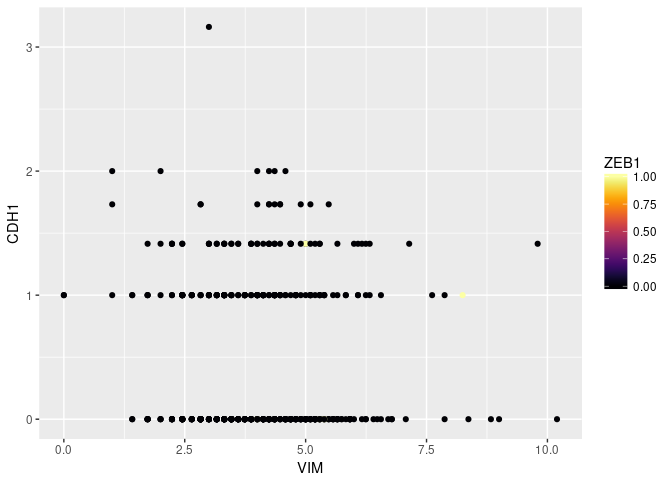
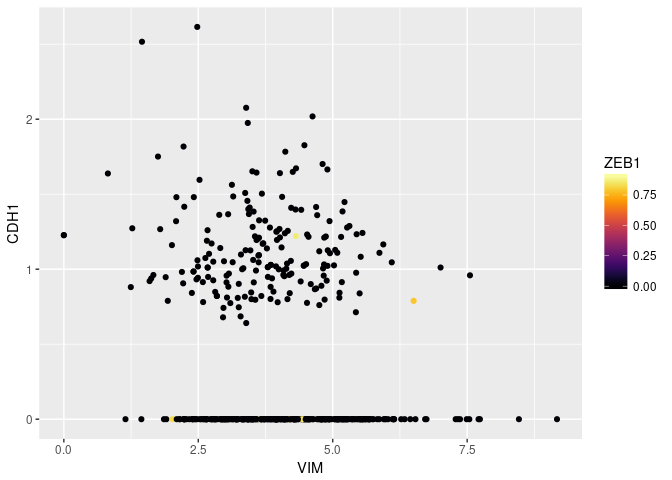
update R readme

diff --git a/R/README.md b/R/README.md
@@ -26,6 +26,11 @@ Diffusion*, Cell
     visualizations
   - MAGIC can be performed on a variety of datasets
   - Here, we show the usage of MAGIC on a toy dataset
+  - You can view further examples of MAGIC on real data in our notebooks
+    under
+        `inst/examples`:
+      - <https://github.com/KrishnaswamyLab/MAGIC/blob/master/R/inst/examples/EMT_tutorial.md>
+      - <https://github.com/KrishnaswamyLab/MAGIC/blob/master/R/inst/examples/bonemarrow_tutorial.md>
 
 ### Installation
 
@@ -50,7 +55,6 @@ We’ll install a couple more tools for this tutorial.
 ``` r
 if (!require(viridis)) install.packages("viridis")
 if (!require(ggplot2)) install.packages("ggplot2")
-if (!require(readr)) install.packages("readr")
 if (!require(phateR)) install.packages("phateR")
 ```
 
@@ -69,7 +73,6 @@ We load the Rmagic package and a few others for convenience functions.
 library(Rmagic)
 #> Loading required package: Matrix
 library(ggplot2)
-library(readr)
 library(viridis)
 #> Loading required package: viridisLite
 library(phateR)
@@ -86,43 +89,20 @@ The example data is located in the MAGIC Github repository.
 
 ``` r
 # load data
-data <- read_csv("../data/test_data.csv")
-#> Parsed with column specification:
-#> cols(
-#>   .default = col_double(),
-#>   AARSD1 = col_integer(),
-#>   AC007773.2 = col_integer(),
-#>   AC011998.4 = col_integer(),
-#>   AC013470.6 = col_integer(),
-#>   AC019129.1 = col_integer(),
-#>   AC084357.1 = col_integer(),
-#>   ACOT4 = col_integer(),
-#>   ADAMTSL1 = col_integer(),
-#>   ADGRA2 = col_integer(),
-#>   ANKRD36B = col_integer(),
-#>   ANKRD36C = col_integer(),
-#>   ANP32BP1 = col_integer(),
-#>   ANXA2P3 = col_integer(),
-#>   ANXA9 = col_integer(),
-#>   AP000254.8 = col_integer(),
-#>   AP000692.9 = col_integer(),
-#>   APLF = col_integer(),
-#>   `ATP1A1-AS1` = col_integer(),
-#>   ATP5A1P3 = col_integer(),
-#>   ATP9B = col_integer()
-#>   # ... with 46 more columns
-#> )
-#> See spec(...) for full column specifications.
-data[1:5,1:10]
-#> # A tibble: 5 x 10
-#>   `A1BG-AS1` AAMDC  AAMP AARSD1 ABCA12 ABCG2 ABHD13 AC007773.2 AC011998.4
-#>        <dbl> <dbl> <dbl>  <int>  <dbl> <dbl>  <dbl>      <int>      <int>
-#> 1          0     0     0      0      0     0      0          0          0
-#> 2          0     1     0      0      0     0      1          0          0
-#> 3          1     0     1      0      0     0      0          0          0
-#> 4          0     0     0      0      0     0      0          0          0
-#> 5          0     0     0      0      0     0      0          0          0
-#> # ... with 1 more variable: AC013470.6 <int>
+data(magic_testdata)
+magic_testdata[1:5,1:10]
+#>       A1BG-AS1     AAMDC      AAMP AARSD1 ABCA12 ABCG2    ABHD13
+#> 6564 0.0000000 0.0000000 0.0000000      0      0     0 0.0000000
+#> 3835 0.0000000 0.8714711 0.0000000      0      0     0 0.8714711
+#> 6318 0.7739207 0.0000000 0.7739207      0      0     0 0.0000000
+#> 3284 0.0000000 0.0000000 0.0000000      0      0     0 0.0000000
+#> 1171 0.0000000 0.0000000 0.0000000      0      0     0 0.0000000
+#>      AC007773.2 AC011998.4 AC013470.6
+#> 6564          0          0          0
+#> 3835          0          0          0
+#> 6318          0          0          0
+#> 3284          0          0          0
+#> 1171          0          0          0
 ```
 
 ### Running MAGIC
@@ -131,13 +111,13 @@ Running MAGIC is as simple as running the `magic` function.
 
 ``` r
 # run MAGIC
-data_MAGIC <- magic(data, genes=c("VIM", "CDH1", "ZEB1"))
+data_MAGIC <- magic(magic_testdata, genes=c("VIM", "CDH1", "ZEB1"))
 ```
 
 We can plot the data before and after MAGIC to visualize the results.
 
 ``` r
-ggplot(data) +
+ggplot(magic_testdata) +
   geom_point(aes(VIM, CDH1, colour=ZEB1)) +
   scale_colour_viridis(option="B")
 ```
@@ -164,7 +144,7 @@ result to the argument `init` to avoid recomputing intermediate
 steps.
 
 ``` r
-data_MAGIC <- magic(data, genes=c("VIM", "CDH1", "ZEB1"), t=4, init=data_MAGIC)
+data_MAGIC <- magic(magic_testdata, genes=c("VIM", "CDH1", "ZEB1"), t=4, init=data_MAGIC)
 ggplot(data_MAGIC) +
   geom_point(aes(VIM, CDH1, colour=ZEB1)) +
   scale_colour_viridis(option="B")
@@ -175,23 +155,24 @@ ggplot(data_MAGIC) +
 We can look at the entire smoothed matrix with `genes='all_genes'`,
 passing the original result to the argument `init` to avoid recomputing
 intermediate steps. Note that this matrix may be large and could take up
-a lot of memory.
+a lot of
+memory.
 
 ``` r
-data_MAGIC <- magic(data, genes="all_genes", t=4, init=data_MAGIC)
+data_MAGIC <- magic(magic_testdata, genes="all_genes", t=4, init=data_MAGIC)
 as.data.frame(data_MAGIC)[1:5, 1:10]
-#>     A1BG-AS1      AAMDC      AAMP     AARSD1     ABCA12      ABCG2
-#> 1 0.02037769 0.06382652 0.1866998 0.02072613 0.03389173 0.01095330
-#> 2 0.02013722 0.06845426 0.1668325 0.01758414 0.02751402 0.01379258
-#> 3 0.02339713 0.06700299 0.2123997 0.01443742 0.02607221 0.01715443
-#> 4 0.02196478 0.06391724 0.1731796 0.01974522 0.03492706 0.01183354
-#> 5 0.02308725 0.06255984 0.1740168 0.01415167 0.03061237 0.01341130
-#>       ABHD13   AC007773.2  AC011998.4  AC013470.6
-#> 1 0.06269969 0.0003847362 0.001479279 0.002307792
-#> 2 0.06077925 0.0005076559 0.001625181 0.001571121
-#> 3 0.06778832 0.0016429060 0.001466889 0.004316825
-#> 4 0.06394137 0.0002450129 0.000342330 0.001291064
-#> 5 0.05982777 0.0011680435 0.002398353 0.003092810
+#>        A1BG-AS1      AAMDC      AAMP     AARSD1     ABCA12      ABCG2
+#> 6564 0.02318932 0.06636833 0.1814952 0.01998665 0.03509270 0.01091799
+#> 3835 0.02305522 0.06726339 0.1597559 0.01630487 0.02857813 0.01335037
+#> 6318 0.02640804 0.06546350 0.1934657 0.01469336 0.03087314 0.01564654
+#> 3284 0.02287164 0.06194795 0.1637859 0.01656443 0.02939938 0.01340856
+#> 1171 0.02824691 0.06262350 0.1767155 0.01483140 0.03406291 0.01458588
+#>          ABHD13   AC007773.2   AC011998.4  AC013470.6
+#> 6564 0.06926381 0.0007282491 0.0012694154 0.003669113
+#> 3835 0.06487983 0.0007331720 0.0016187119 0.002646376
+#> 6318 0.07547549 0.0012984700 0.0020315661 0.005617329
+#> 3284 0.06620499 0.0007615835 0.0007540187 0.001993851
+#> 1171 0.07200313 0.0012521371 0.0025994098 0.005028384
 ```
 
 ### Visualizing MAGIC values on PCA
@@ -216,7 +197,7 @@ sense with PHATE; however, the default values work well for single-cell
 genomic data.
 
 ``` r
-data_PHATE <- phate(data, k=3, t=15)
+data_PHATE <- phate(magic_testdata, k=3, t=15)
 ggplot(data_PHATE) +
   geom_point(aes(x=PHATE1, y=PHATE2, color=data_MAGIC$result$VIM)) +
   scale_color_viridis(option="B") +
